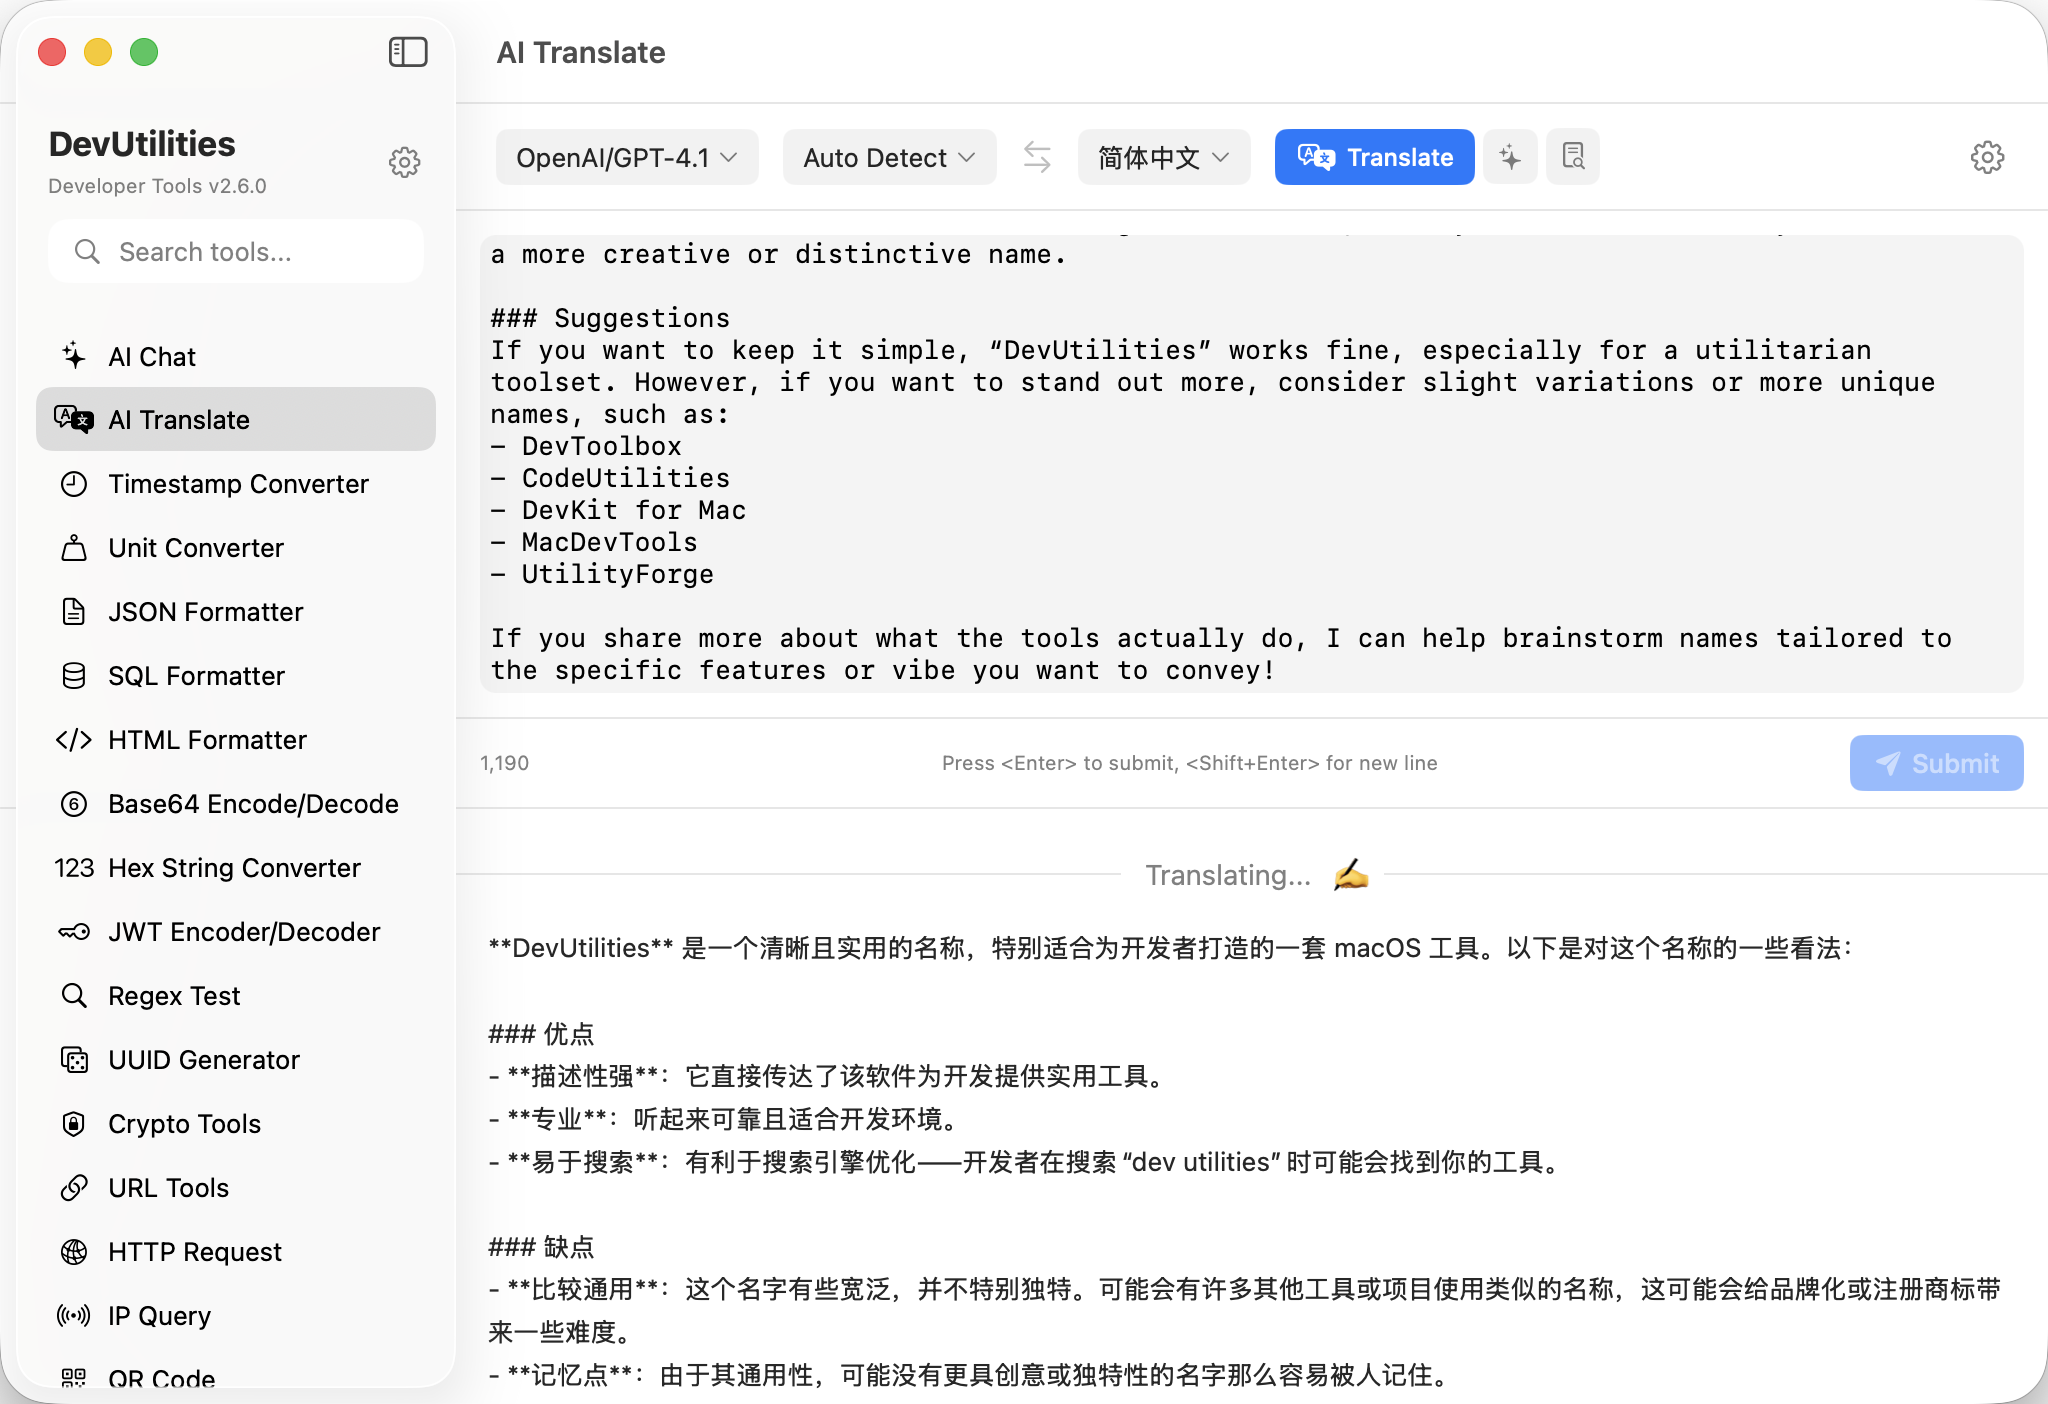
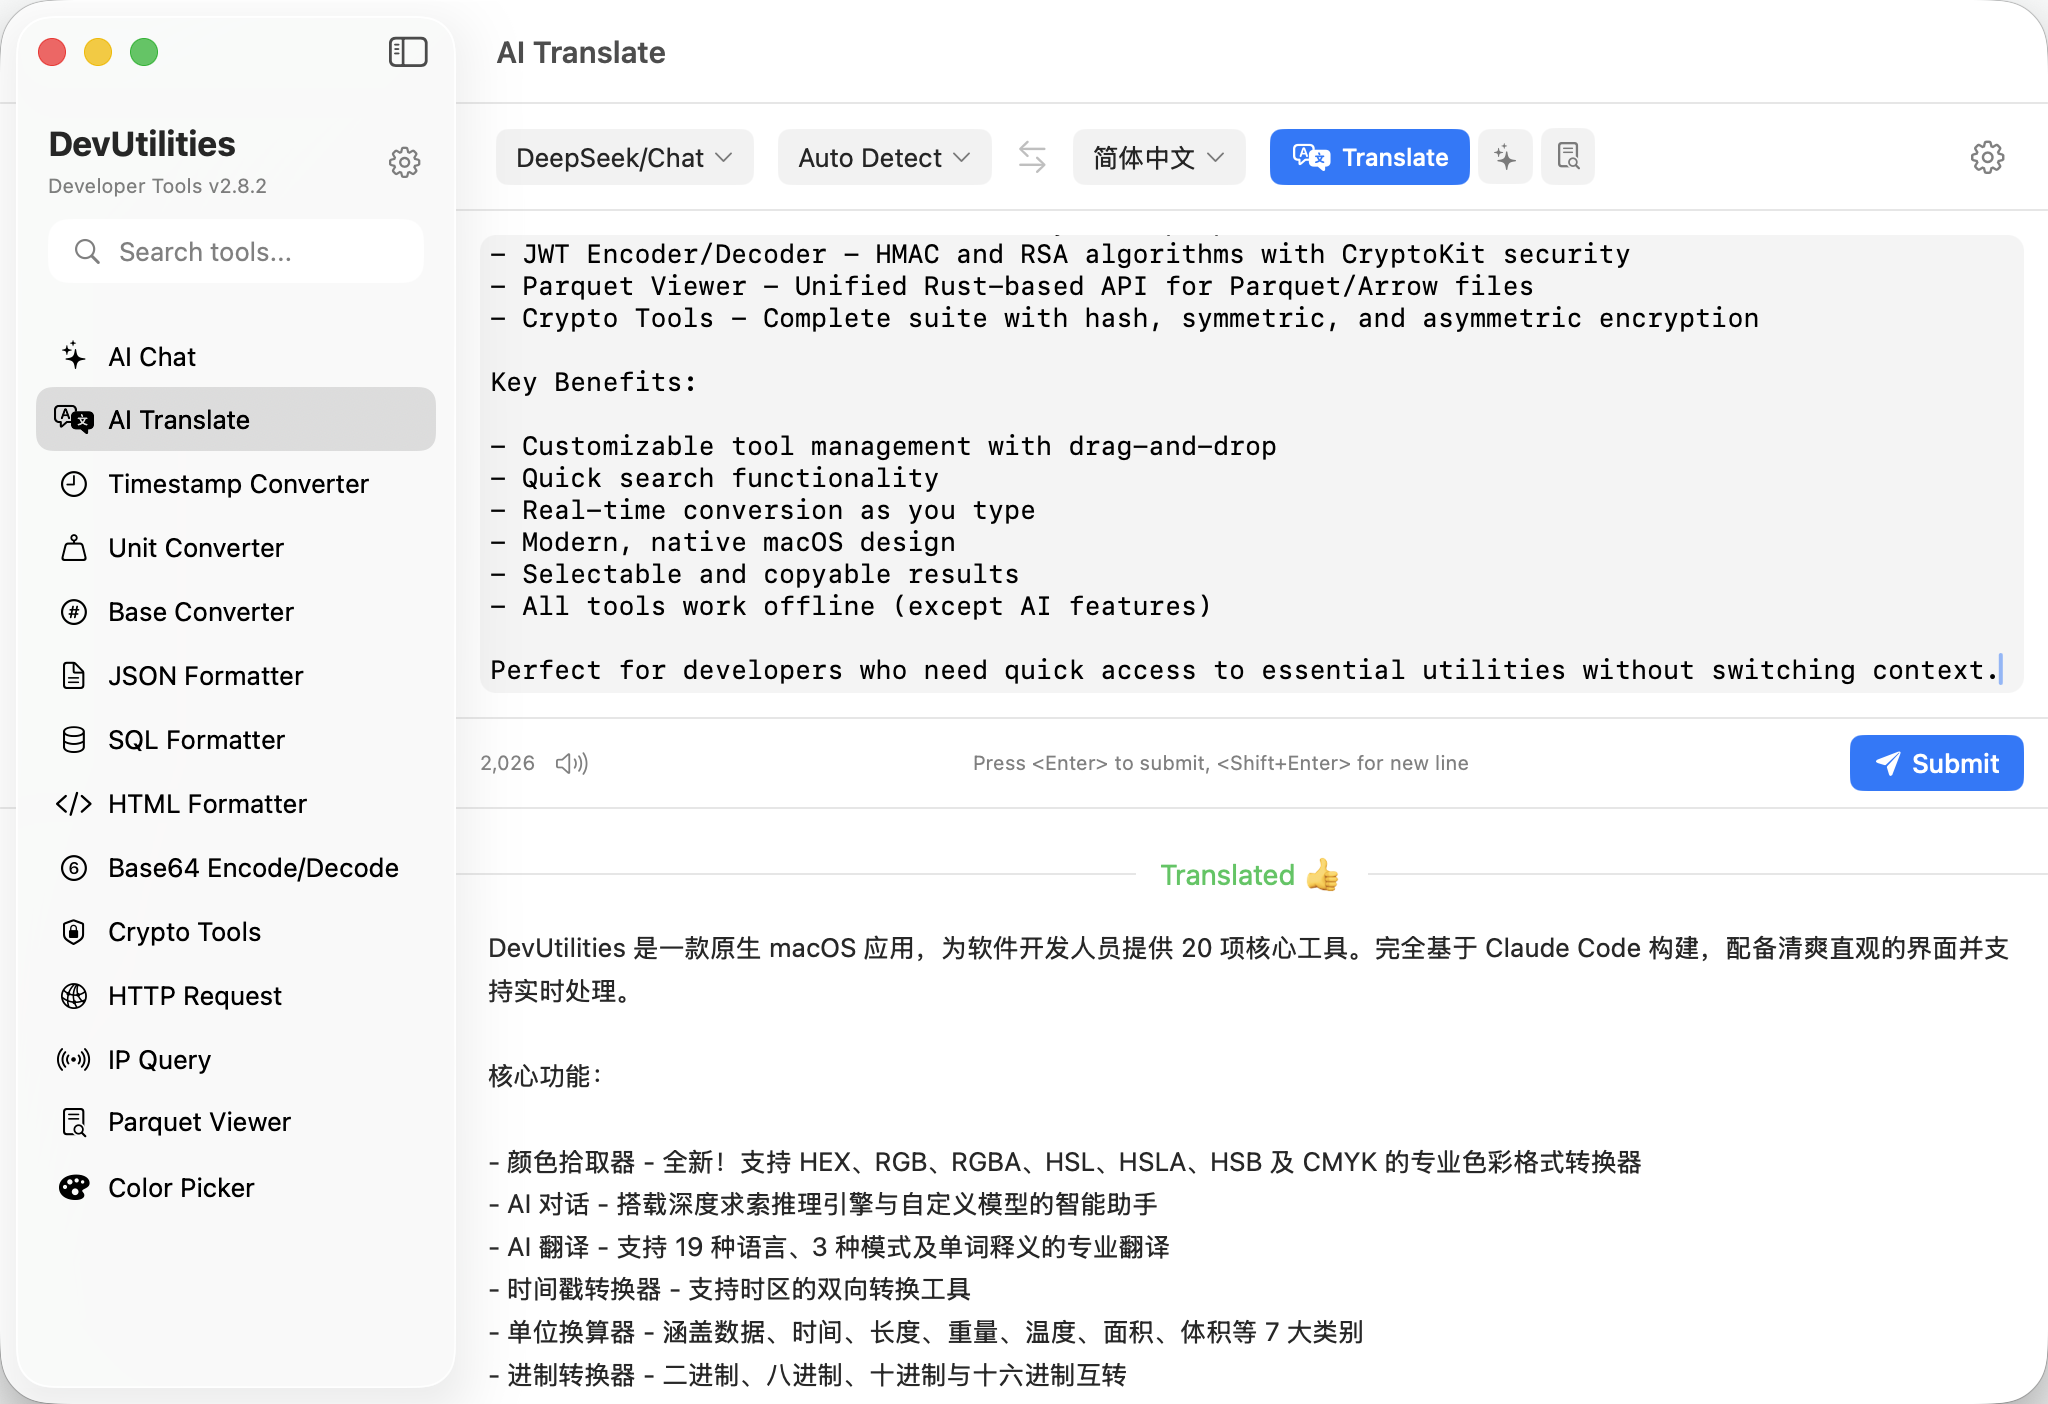
update ai translate to support speech

diff --git a/release-notes.html b/release-notes.html
@@ -271,6 +271,52 @@
             </div>
 
             <div class="version-list">
+                <!-- Version 2.8.2 -->
+                <article class="version-card">
+                    <div class="version-header">
+                        <div class="version-info">
+                            <h2 class="version-number">v2.8.2</h2>
+                            <span class="version-date">October 2025</span>
+                        </div>
+                        <span class="version-badge patch">Enhancement</span>
+                    </div>
+
+                    <div class="version-content">
+                        <ul class="changes-list">
+                            <li class="change-item">
+                                <span class="change-icon">🔊</span>
+                                <div class="change-text">
+                                    <span class="change-highlight">Text-to-Speech (TTS)</span> - Integrated native macOS TTS in AI Translate for listening to both source and translated text with one-click playback
+                                </div>
+                            </li>
+                            <li class="change-item">
+                                <span class="change-icon">🌍</span>
+                                <div class="change-text">
+                                    <span class="change-highlight">Multi-language TTS</span> - Supports all 19 translation languages with automatic voice selection (English, Chinese, Japanese, Korean, Spanish, French, German, Russian, Arabic, and more)
+                                </div>
+                            </li>
+                            <li class="change-item">
+                                <span class="change-icon">🎭</span>
+                                <div class="change-text">
+                                    <span class="change-highlight">Animated Speaker Icons</span> - Visual feedback with smooth wave animations during playback, left-aligned to prevent icon jitter
+                                </div>
+                            </li>
+                            <li class="change-item">
+                                <span class="change-icon">🛡</span>
+                                <div class="change-text">
+                                    <span class="change-highlight">Smart Text Processing</span> - Prevents audio errors through SSML character escaping, whitespace validation, and comprehensive error handling
+                                </div>
+                            </li>
+                            <li class="change-item">
+                                <span class="change-icon">⚡</span>
+                                <div class="change-text">
+                                    <span class="change-highlight">Thread-safe Implementation</span> - Optimized with internal state tracking to eliminate priority inversion warnings and ensure smooth performance
+                                </div>
+                            </li>
+                        </ul>
+                    </div>
+                </article>
+
                 <!-- Version 2.8.1 -->
                 <article class="version-card">
                     <div class="version-header">

diff --git a/index.html b/index.html
@@ -29,9 +29,9 @@
         "description": "DevUtilities is a native macOS application containing 20 essential developer tools including color picker, AI translate, AI chat, base converter, timestamp converter, JSON formatter, hex string converter, regex test, HTTP client, and more.",
         "applicationCategory": "DeveloperApplication",
         "operatingSystem": "macOS",
-        "softwareVersion": "2.8.1",
+        "softwareVersion": "2.8.2",
         "datePublished": "2025-01-01",
-        "dateModified": "2025-10-01",
+        "dateModified": "2025-10-26",
         "author": {
             "@type": "Person",
             "name": "DevUtilities Team"
@@ -290,7 +290,7 @@
                     </div>
                     <h3 class="feature-title"><a href="ai-translate.html">AI Translate</a></h3>
                     <p class="feature-description">Professional translation with 3 modes (Translate, Polishing, Summarize), 19 language support, and special word mode with detailed explanations including phonetic notation, meanings, examples, and etymology. Real-time streaming results with animated status indicators.</p>
-                    <span class="feature-badge">Updated in v2.4.0</span>
+                    <span class="feature-badge">Updated in v2.8.2</span>
                     <a href="ai-translate.html" class="feature-link">Learn More →</a>
                 </div>
 

diff --git a/ai-translate.html b/ai-translate.html
@@ -200,6 +200,12 @@
                     <h3 class="feature-title">Text Summarization</h3>
                     <p class="feature-description">Create concise summaries in your target language. Condense long texts into key points while maintaining essential information.</p>
                 </div>
+
+                <div class="feature-card featured">
+                    <div class="feature-icon">🔊</div>
+                    <h3 class="feature-title">Text-to-Speech (TTS) <span class="feature-badge">NEW in v2.8.2</span></h3>
+                    <p class="feature-description">Listen to both source and translated text with native macOS TTS. Supports all 19 languages with automatic voice selection and smooth playback animations.</p>
+                </div>
             </div>
         </div>
     </section>

diff --git a/README.md b/README.md
@@ -11,11 +11,11 @@ A native macOS application for developers, containing 20 essential tools commonl
 ## Features
 
 - **AI Chat** - Intelligent AI assistant with custom model support, flexible API configuration, and enhanced user experience for development questions
-- **AI Translate** - Professional translation tool with 3 modes (Translate, Polishing, Summarize), 19 language support, and special word mode with detailed explanations
+- **AI Translate** - **NEW TTS** Professional translation tool with 3 modes, 19 language support, text-to-speech playback, and special word mode with detailed explanations
 - **Timestamp Converter** - Convert between timestamps and human-readable dates with multiple format support
 - **Unit Converter** - Convert between different units (Data, Time, Length, Weight, Temperature, Area, Volume)
 - **Base Converter** - Mutual conversion between binary, octal, decimal, hexadecimal, and Base62 number systems with real-time validation
-- **Color Picker** - **NEW** Professional color format converter with HEX, RGB, RGBA, HSL, HSLA, HSB, and CMYK support and color history
+- **Color Picker** - Professional color format converter with HEX, RGB, RGBA, HSL, HSLA, HSB, and CMYK support and color history
 - **JSON Formatter** - Format, validate, and compare JSON data with visual CodeMirror diff editor
 - **SQL Formatter** - Format and minify SQL queries with syntax validation
 - **HTML Formatter** - Format and minify HTML with proper tag indentation
@@ -33,15 +33,24 @@ A native macOS application for developers, containing 20 essential tools commonl
 
 ## Key Features
 
-- **Customizable Tool Management** - **NEW** Enable/disable tools and organize them with drag-and-drop interface
+- **Customizable Tool Management** - Enable/disable tools and organize them with drag-and-drop interface
 - **Search Functionality** - Quickly find tools using the search bar in the sidebar
 - **Selectable Results** - Copy results directly from the output areas
 - **Modern UI** - Clean, intuitive interface designed for macOS
 - **Real-time Conversion** - Instant results as you type
+- **Text-to-Speech** - **NEW** Native macOS TTS for AI Translate with multi-language voice support
 
 ## Version
 
-Current version: 2.8.1
+Current version: 2.8.2
+
+## What's New in v2.8.2
+
+- **Text-to-Speech (TTS)**: Integrated native macOS TTS in AI Translate for listening to both source and translated text
+- **Multi-language TTS**: Supports all 19 translation languages with proper voice selection
+- **Animated Speaker Icons**: Visual feedback with smooth wave animations during playback
+- **Smart Sanitization**: Prevents audio errors by escaping special characters
+- **Thread-safe**: Optimized implementation without performance warnings
 
 ## What's New in v2.8.1
 
